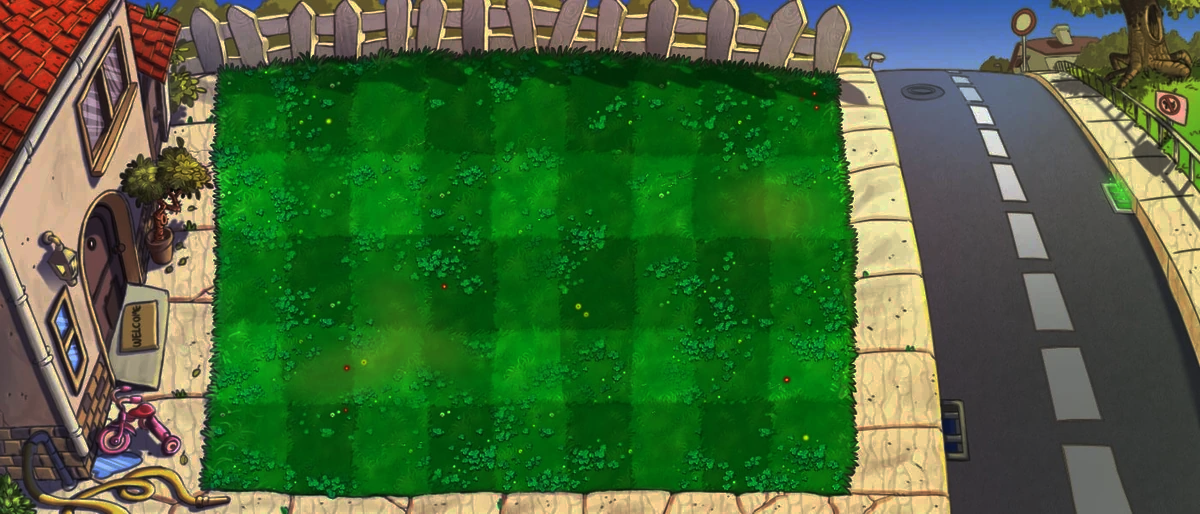
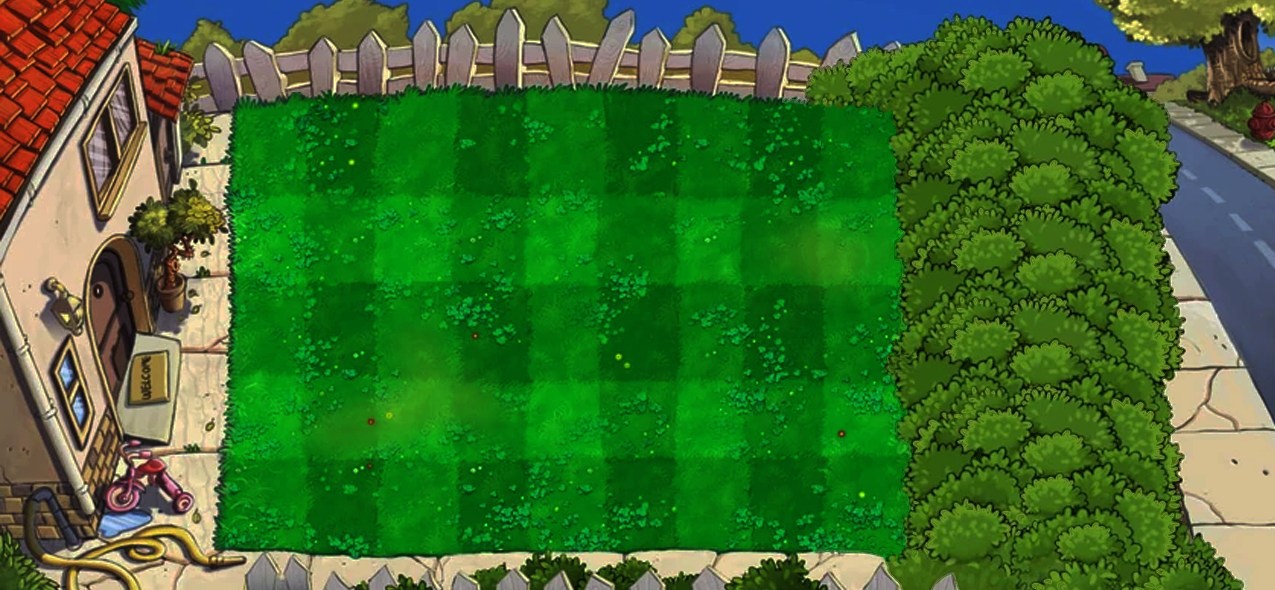
ajuste navBar

diff --git a/public/assets/css/styles.css b/public/assets/css/styles.css
@@ -29,9 +29,7 @@
     animation: seletorAnimation 1.5s infinite;
     /* Adicione qualquer outra propriedade que desejar */
 
-
 }
-
 
 #follow-image {
     animation: bounceAnimation 0.8s infinite;
@@ -41,10 +39,10 @@
 .board {
     box-sizing: border-box;
     position: absolute;
-    left: 13%;
-    top: 14%;
-    width: 62%;
-    height: 80%;
+    left: 12%;
+    top: 16.8%;
+    width: 59%;
+    height: 77.4%;
 
     border: 1px solid red;
 
@@ -139,14 +137,47 @@
 
 /* cards para selecionar */
 
+.navbar-zombie{
+    gap: 1%;
+
+    background-image: url(../img/navBar/navBarZombie.png);
+    background-size: contain;
+    background-repeat: no-repeat;
+
+}
+
+.navbar-zombie > :first-child{
+margin-left: 3%;
+} 
+
+.navbar-planta{
+    gap: 1%; 
+
+    background-image: url(../img/navBar/navBarPlanta.png);
+    background-size: 100% 100%;
+    background-size: contain;
+    background-repeat: no-repeat;
+
+}
+.navbar-planta > :first-child{
+    margin-left: 6.5%;
+}
+
+.navbar-planta >  div{
+    margin-top: 0.3%;
+   
+}
+
+
 .navbar {
     display: flex;
-    gap: 5%;
+    gap: 0.5%;
     position: absolute;
-    top: 3%;
-    left: 17%;
-    width: 60%;
-    height: 10%;
+    top: 2%;
+    left: 15%;
+    width: 61%;
+    height: 13%;
+    
 }
 
 .navbar .style-resize {
@@ -156,7 +187,7 @@
 }
 
 .style-resize > div {
-    width: 14%;
+    width: 10.3%;
     height: 100%;
     background-size: contain;
     background-repeat: no-repeat;

diff --git a/public/index.html b/public/index.html
@@ -14,7 +14,8 @@
     <img id="follow-image" src="./seletorTrianguloAzul.png" alt="Imagem a seguir o mouse">
     
     <div class="navbar">
-        <div class="style-resize">
+        <div class="style-resize navbar-planta">
+            <div class="pontuacao-planta" ></div>
             <div class="card sunflower" draggable="true"></div>
             <div class="card peashooter" draggable="true"></div>
             <div class="card showpea" draggable="true"></div>
@@ -23,7 +24,7 @@
             <div class="card cherrybomb" draggable="true"></div>
             <div class="card potatomine" draggable="true"></div>
         </div>
-        <div class="style-resize">
+        <div class="style-resize navbar-zombie">
             <div class="card cardtombstone" draggable="true"></div>
             <div class="card zombies" draggable="true"></div>
             <div class="card conehead" draggable="true"></div>
@@ -31,6 +32,7 @@
             <div class="card flagzombie" draggable="true"></div>
             <div class="card football" draggable="true"></div>
             <div class="card screendoor" draggable="true"></div>
+            <div class="pontuacao-zombie" ></div>
         </div>
     </div>
     <div class="tabuleiro normal conteudo board" id="conteudo2"></div>
